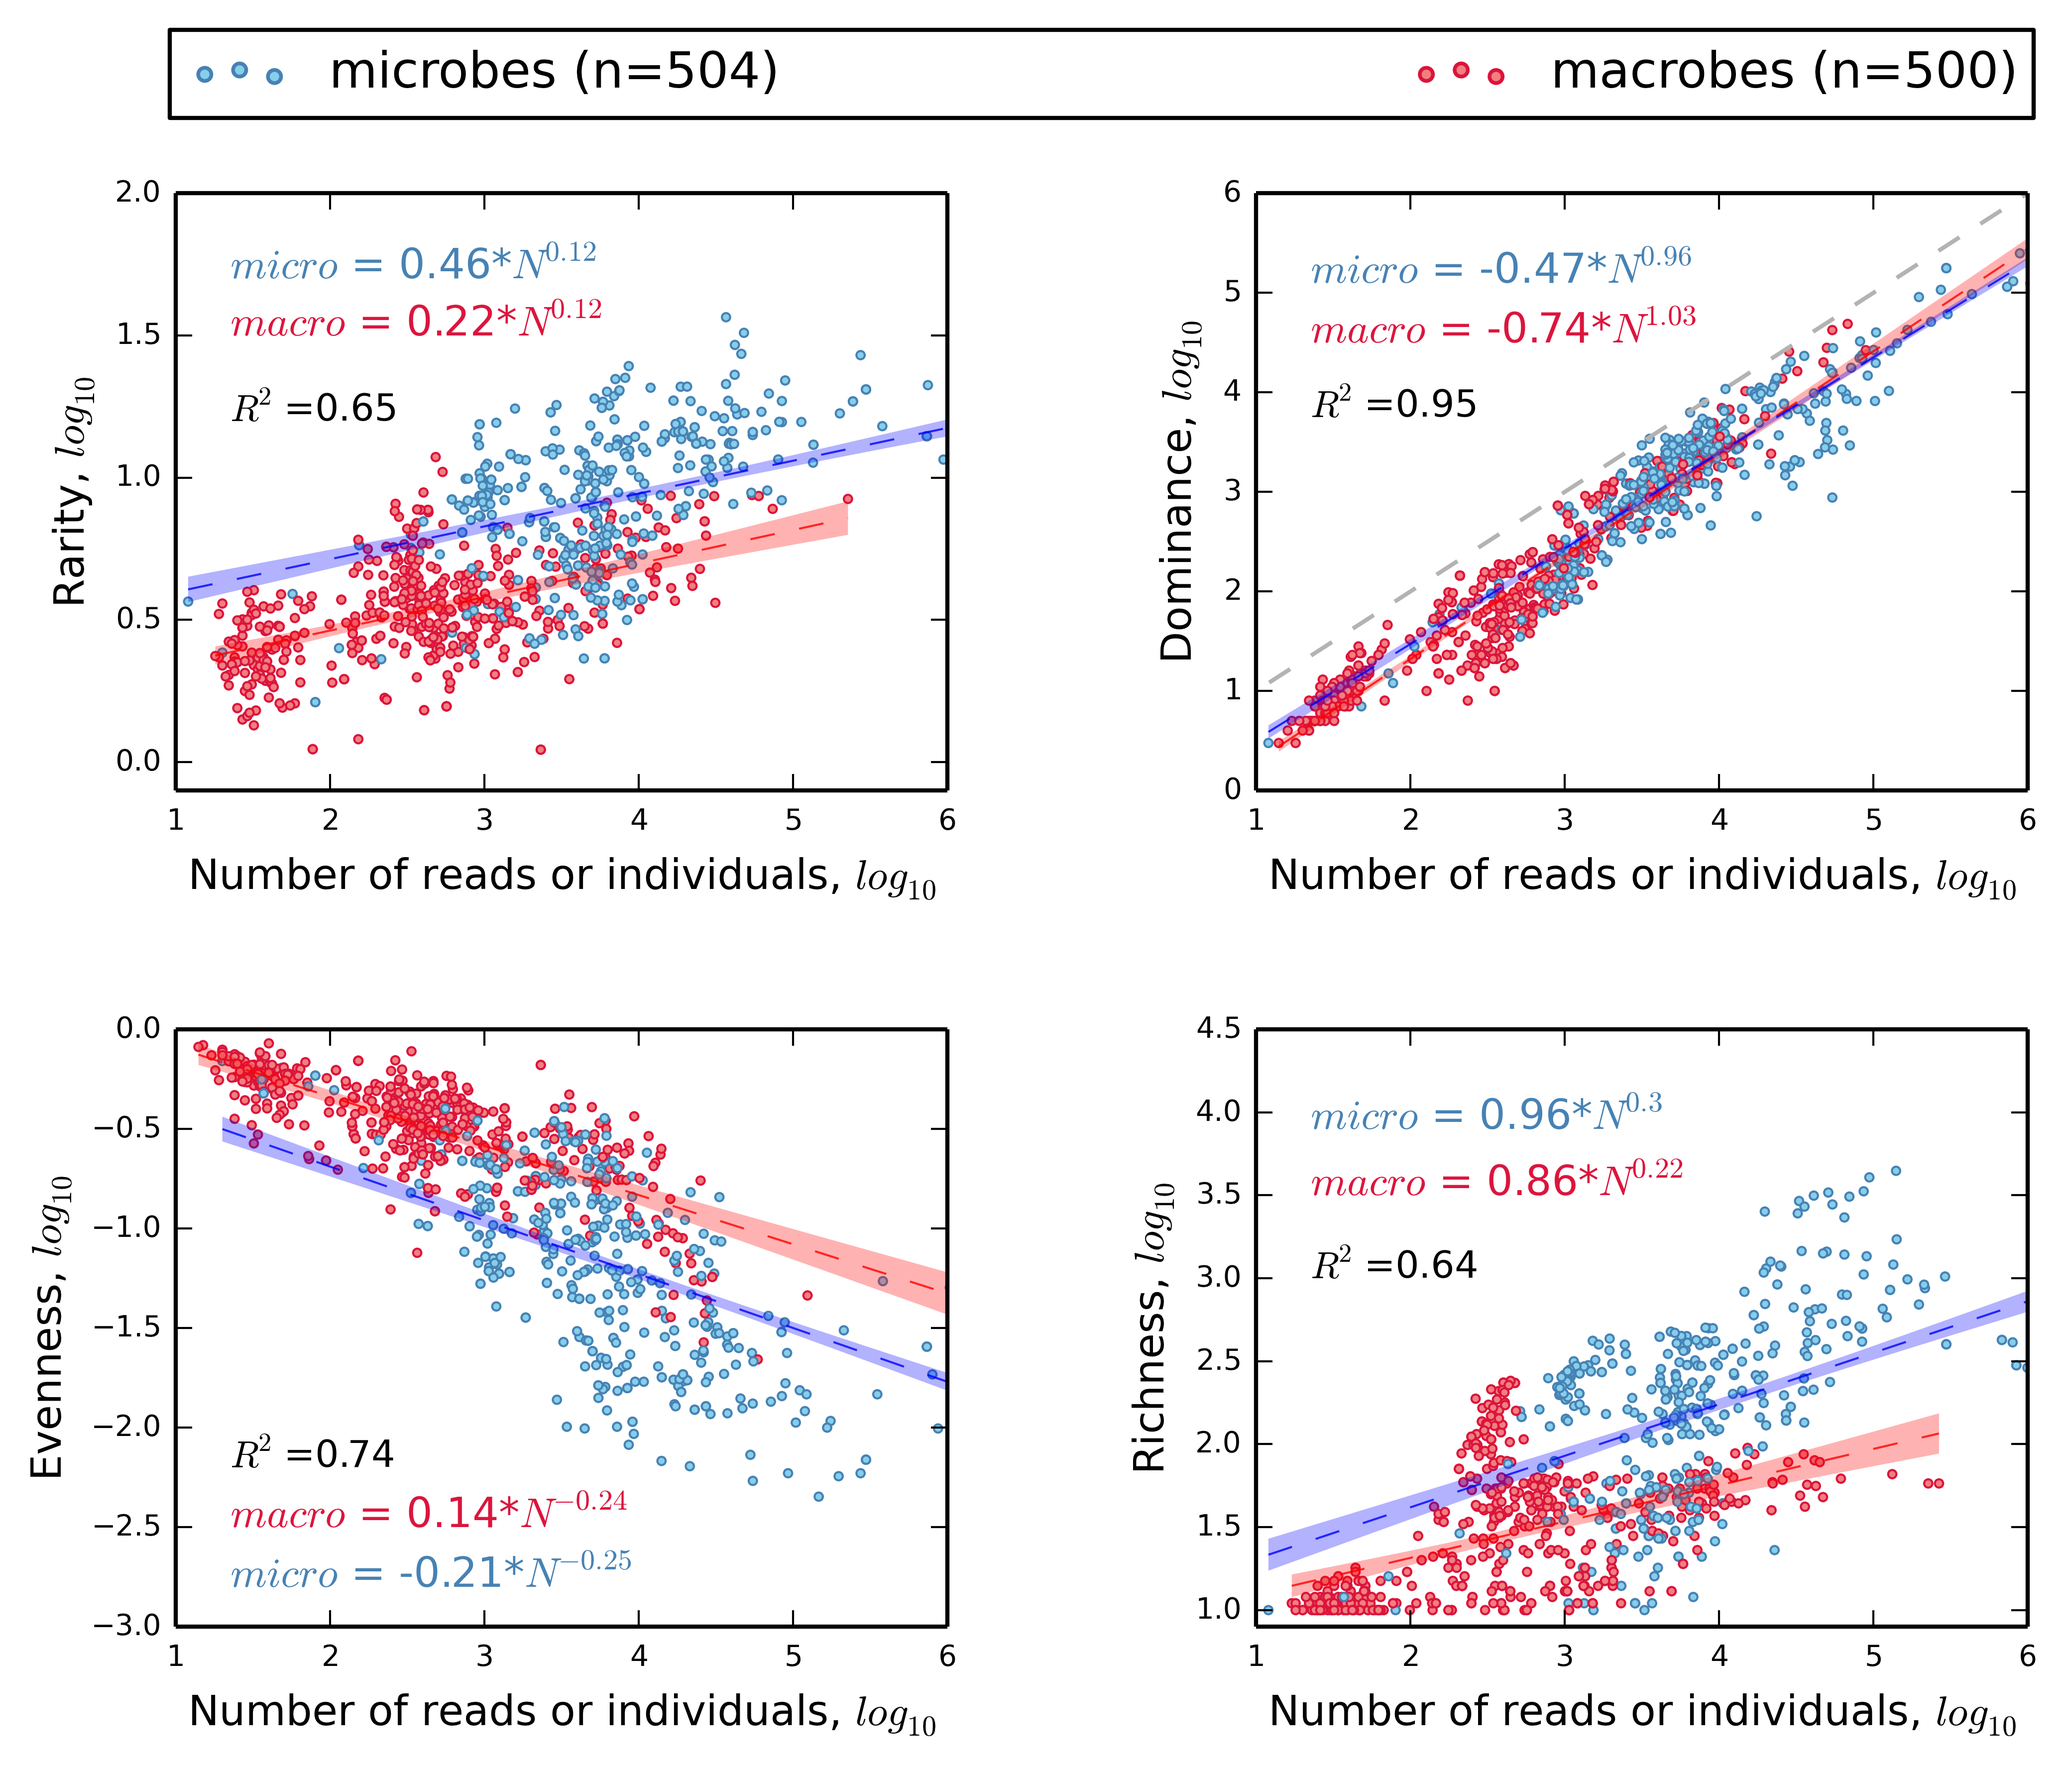
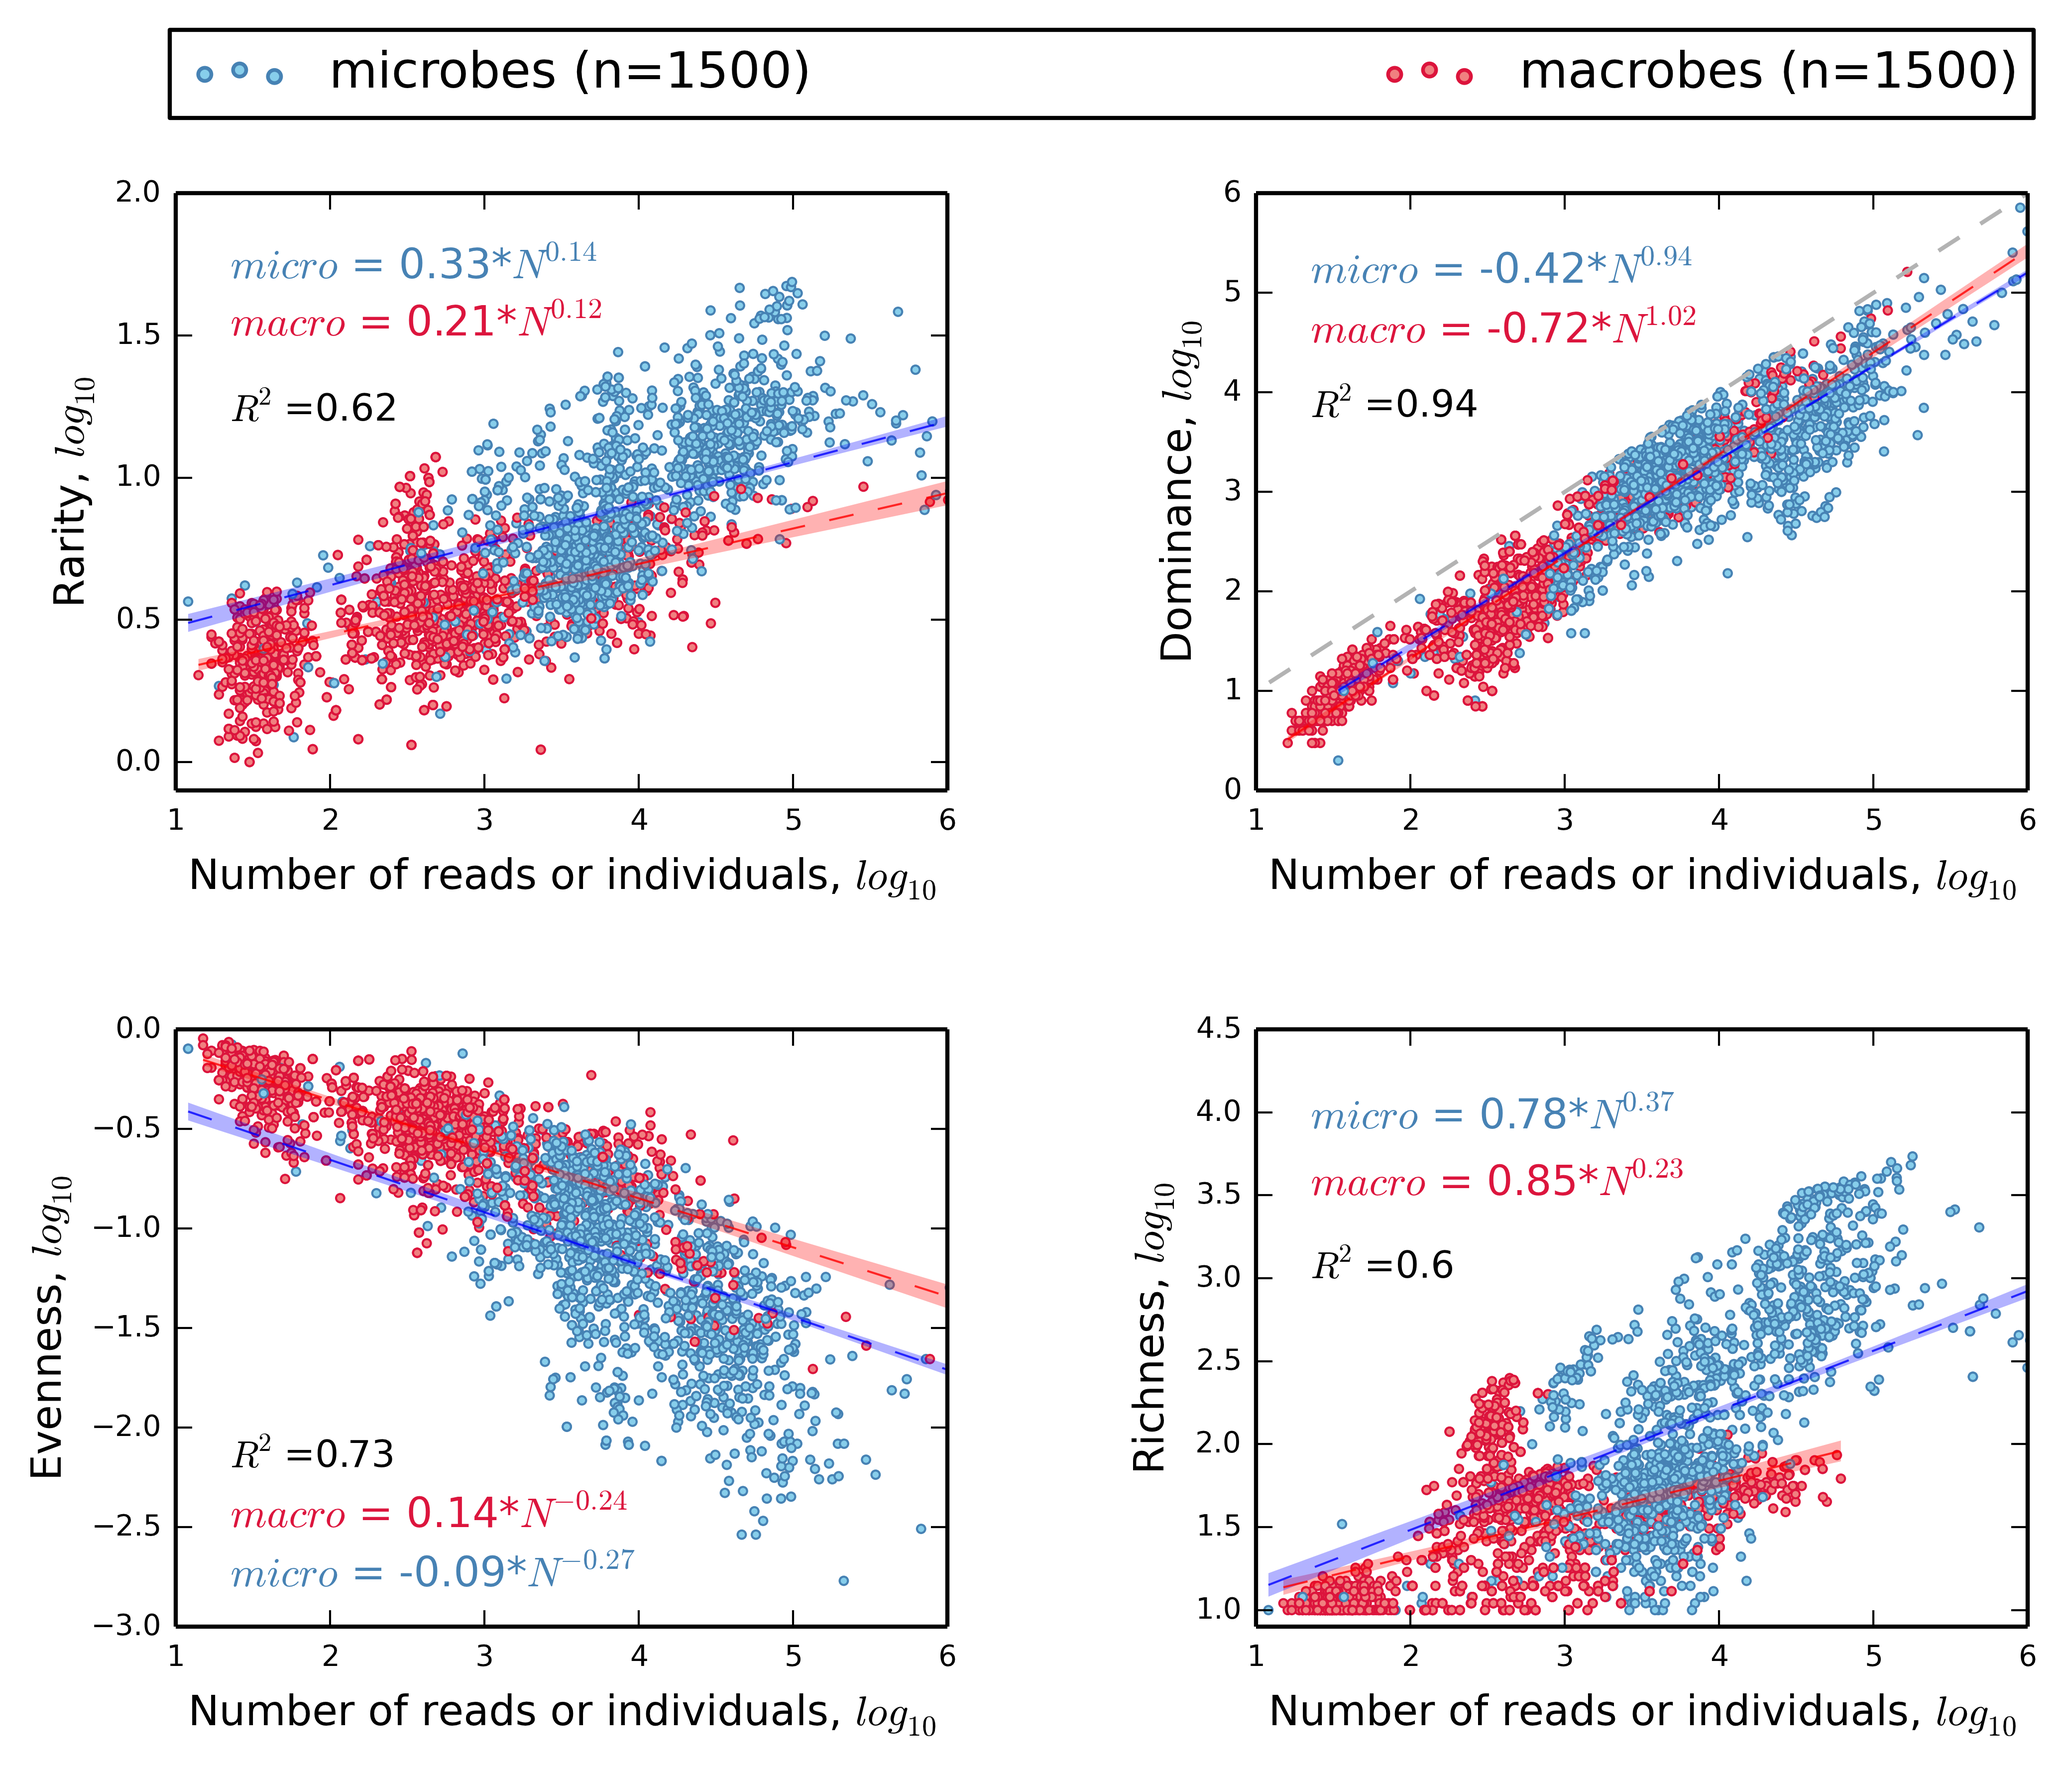
added Fig3Macrobes.py to predict macrobial S, modified Prestons_a.py file and Fig1.pyx; generated new fig -KL

diff --git a/fig-scripts/Fig3/Fig3Macrobes.py b/fig-scripts/Fig3/Fig3Macrobes.py
@@ -1,0 +1,226 @@
+from __future__ import division
+import  matplotlib.pyplot as plt
+import numpy as np
+import random
+import scipy as sc
+from scipy import stats
+import os
+import sys
+import statsmodels.stats.api as sms
+import statsmodels.formula.api as smf
+from statsmodels.sandbox.regression.predstd import wls_prediction_std
+from statsmodels.stats.outliers_influence import summary_table
+from numpy import log, log2, exp, sqrt, log10, pi
+from scipy.optimize import fsolve
+import scipy.optimize as opt
+import pandas as pd #import patsy
+import mpmath as mpm
+from scipy.optimize import fsolve
+from math import erf, pi
+import linecache
+import math
+
+mydir = os.path.expanduser("~/GitHub/rare-bio/")
+mydir2 = os.path.expanduser("~/")
+
+
+def alpha2(a, N, Nmax, Nmin):
+    y = sqrt(pi*Nmin*Nmax)/(2.0*a) * exp((a * log2(sqrt(Nmax/Nmin)))**2.0)
+    y = y * exp((log(2.0)/(2.0*a))**2.0)
+    y = y * erf(a * log2(sqrt(Nmax/Nmin)) - log(2.0)/(2.0*a)) + erf(a * log2(sqrt(Nmax/Nmin)) + log(2.0)/(2.0*a))
+    y -= N
+
+    return y # find alpha
+
+def s2(a, Nmax, Nmin):
+    return sqrt(pi)/a * exp( (a * log2(sqrt(Nmax/Nmin)))**2) # Using equation 10
+
+
+def getNmax(N, b, slope):
+    return 10 ** (b + slope*(log10(N)))
+
+def expS(N, b, slope):
+    return 10 ** (b + slope*(log10(N)))
+
+
+
+def Fig3():
+
+    """ A figure demonstrating a strong richness relationship across 10 or 11
+    orders of magnitude in total abundance. Taxonomic richness of a sample
+    scales in a log-log fashion with the total abundance of the sample.
+    """
+
+    Nlist, Slist, klist, NmaxList, datasets, radDATA = [[],[],[],[],[],[]]
+
+    name = 'MCDB'
+    kind = 'macro'
+    path = mydir2+'data/macro/'+name+'/'+name+'-SADMetricData.txt'
+    numlines = sum(1 for line in open(path))
+    lines = np.random.choice(range(1, numlines+1), 1000, replace=True)
+
+    path = mydir2+'data/'+kind+'/'+name+'/'+name+'-SADMetricData.txt'
+    for line in lines:
+        data = linecache.getline(path, line)
+        radDATA.append(data)
+
+    for data in radDATA:
+        data = data.split()
+        name, kind, N, S, Var, Evar, ESimp, EQ, O, ENee, EPielou, EHeip, BP, SimpDom, Nmax, McN, skew, logskew, chao1, ace, jknife1, jknife2, margalef, menhinick, preston_a, preston_S = data
+
+        N = float(N)
+        S = float(S)
+        Nmax = float(Nmax)
+
+        if S < 2 or N < 11: continue # Min species richness
+
+        Nlist.append(float(np.log10(N)))
+        Slist.append(float(np.log10(S)))
+
+        NmaxList.append(float(np.log10(Nmax)))
+        klist.append('DarkCyan')
+
+
+    Nlist, Slist, NmaxList = zip(*sorted(zip(Nlist, Slist, NmaxList)))
+    Nlist = list(Nlist)
+    Slist = list(Slist)
+    NmaxList = list(NmaxList)
+
+    # Regression for Dominance (Nmax) vs. N
+    d = pd.DataFrame({'N': Nlist})
+    d['Nmax'] = NmaxList
+    f = smf.ols('Nmax ~ N', d).fit()
+
+    dR2 = f.rsquared
+    dintercept = f.params[0]
+    dslope = f.params[1]
+    print 'R2 for Nmax vs. N:', round(dR2,3)
+
+    # Regression for Richness (S) vs. N
+    d = pd.DataFrame({'N': Nlist})
+    d['S'] = Slist
+    f = smf.ols('S ~ N', d).fit()
+
+    sR2 = f.rsquared
+    sintercept = f.params[0]
+    sslope = f.params[1]
+    print 'R2 for S vs. N:', round(sR2,3),'\n'
+
+    print 'Nmax =', round(dintercept,2), '*', 'N^', round(dslope,2)
+    print 'S =', round(sintercept,2), '*', 'N^', round(sslope,2),'\n'
+
+    MammalN = 286 * (10**6)
+    MammalNmax = 82 * (10**6)
+    MammalS = 63
+
+    # UK estimates for mammals
+    Nmin = 1
+    N = float(MammalN)
+    empS = expS(N, sintercept, sslope)
+
+    Nmax = MammalNmax
+    guess = 0.183774388267
+
+    a = opt.fsolve(alpha2, guess, (N, Nmax, Nmin))[0]
+    print guess, a
+    S2 = s2(a, Nmax, Nmin)
+
+    print 'MammalNmax:', '%.2e' % float(MammalNmax)
+    print 'predicted Nmax:', '%.2e' % getNmax(N, dintercept, dslope),'\n'
+    print 'estimated S for Mammals:', '%.2e' % MammalS
+    print 'scaling law prediction of S for Mammals:', '%.2e' % empS
+    print 'lognormal prediction of S for Mammals:', '%.2e' % S2,'\n'
+
+
+
+    AvianN = 2.*10**11
+    AvianNmax = 3*10**9
+    AvianS = 10500
+
+    Nlist, Slist, klist, NmaxList, datasets, radDATA = [[],[],[],[],[],[]]
+
+    name = 'BBS'
+    kind = 'macro'
+    path = mydir2+'data/macro/'+name+'/'+name+'-SADMetricData.txt'
+    numlines = sum(1 for line in open(path))
+    lines = np.random.choice(range(1, numlines+1), 1000, replace=True)
+
+    path = mydir2+'data/'+kind+'/'+name+'/'+name+'-SADMetricData.txt'
+    for line in lines:
+        data = linecache.getline(path, line)
+        radDATA.append(data)
+
+    for data in radDATA:
+        data = data.split()
+        name, kind, N, S, Var, Evar, ESimp, EQ, O, ENee, EPielou, EHeip, BP, SimpDom, Nmax, McN, skew, logskew, chao1, ace, jknife1, jknife2, margalef, menhinick, preston_a, preston_S = data
+
+        N = float(N)
+        S = float(S)
+        Nmax = float(Nmax)
+
+        if S < 2 or N < 11: continue # Min species richness
+
+        Nlist.append(float(np.log10(N)))
+        Slist.append(float(np.log10(S)))
+
+        NmaxList.append(float(np.log10(Nmax)))
+        klist.append('DarkCyan')
+
+
+    Nlist, Slist, NmaxList = zip(*sorted(zip(Nlist, Slist, NmaxList)))
+    Nlist = list(Nlist)
+    Slist = list(Slist)
+    NmaxList = list(NmaxList)
+
+    Nlist = list(Nlist)
+    Slist = list(Slist)
+    NmaxList = list(NmaxList)
+
+    # Regression for Dominance (Nmax) vs. N
+    d = pd.DataFrame({'N': Nlist})
+    d['Nmax'] = NmaxList
+    f = smf.ols('Nmax ~ N', d).fit()
+
+    dR2 = f.rsquared
+    dintercept = f.params[0]
+    dslope = f.params[1]
+    print 'R2 for Nmax vs. N:', round(dR2,3)
+
+    # Regression for Richness (S) vs. N
+    d = pd.DataFrame({'N': Nlist})
+    d['S'] = Slist
+    f = smf.ols('S ~ N', d).fit()
+
+    sR2 = f.rsquared
+    sintercept = f.params[0]
+    sslope = f.params[1]
+    print 'R2 for S vs. N:', round(sR2,3),'\n'
+
+    print 'Nmax =', round(dintercept,2), '*', 'N^', round(dslope,2)
+    print 'S =', round(sintercept,2), '*', 'N^', round(sslope,2),'\n'
+
+    # Global estimates for birds
+    Nmin = 1
+    N = float(AvianN)
+    empS = expS(N, sintercept, sslope)
+
+    Nmax = AvianNmax
+    guess = 0.210521390628
+
+
+    a = opt.fsolve(alpha2, guess, (N, Nmax, Nmin))[0]
+    print guess, a
+    S2 = s2(a, Nmax, Nmin)
+
+    print 'AvianNmax:', '%.2e' % float(AvianNmax)
+    print 'predicted Nmax:', '%.2e' % getNmax(N, dintercept, dslope),'\n'
+    print 'estimated S for Birds:', '%.2e' % AvianS
+    print 'scaling law prediction of S for Birds:', '%.2e' % empS
+    print 'lognormal prediction of S for birds:', '%.2e' % S2
+
+
+    return
+
+
+
+Fig3()

diff --git a/ExtraTests/lognormal/Prestons_a.py b/ExtraTests/lognormal/Prestons_a.py
@@ -19,83 +19,52 @@ Earth = 3.17 * 10**30 # estimated bacteria on Earth; add reference
 HGx = 10**14 # estimated bacteria in Human gut; add reference
 HGy = 0.1169*HGx # estimated most abundant bacteria in Human gut; add reference
 
-'''
-Human Gut, V3, A	188071	3319	28984
-Human Gut, V3, B	154446	2592	16400
-Human Gut, V3, C	148182	5671	16785
-Human Gut, V6, A	135570	1745	14440
-Human Gut, V6, B	154698	1673	15342
-Human Gut, V6, C	151626	1731	18530
-EMP	1252724704	5594411	597974
-HMP	22618041	27483	81814
-'''
+AvianN = 2.82*10**11
+AvianNmax = 3*10**9
+AvianS = 10500
 
 
-def alpha1(a):
+
+def alpha1(a, Nmax, Nt):
     return (sqrt(pi) * Nmax)/(2.0*a) * erf(log(2.0)/a) - Nt # find alpha
 
 def s1(a):
     return sqrt(pi)/a * exp( (log(2.0)/(2.0*a))**2.0 ) # Using equation 8
 
 
-def alpha2(a):
+def alpha2(a, N, Nmax, Nmin):
     y = sqrt(pi*Nmin*Nmax)/(2.0*a) * exp((a * log2(sqrt(Nmax/Nmin)))**2.0)
     y = y * exp((log(2.0)/(2.0*a))**2.0)
     y = y * erf(a * log2(sqrt(Nmax/Nmin)) - log(2.0)/(2.0*a)) + erf(a * log2(sqrt(Nmax/Nmin)) + log(2.0)/(2.0*a))
-    y -= Nt
+    y -= N
 
     return y # find alpha
 
-def s2(a):
+def s2(a, Nmax, Nmin):
     return sqrt(pi)/a * exp( (a * log2(sqrt(Nmax/Nmin)))**2) # Using equation 10
 
 
 def getNmax(N):
-    return 10 ** (0.5 + 0.93*(log10(N)))
+    return 10 ** (1.02*(log10(N)) - 0.71)
 
-def empS(N, b=0.639, slope=0.431):
-    return 10 ** (0.639 + 0.431*(log10(N)))
+def empS(N, b=0.85, slope=0.3): # macrobes: b = 0.86, slope = 0.23
+    return 10 ** (b + slope*(log10(N)))
 
 
-Nt = float(Earth)
-#Nmax = float(Pm)
-Nmax = getNmax(Earth)
+N = float(AvianN)
+Nmax = AvianNmax
 Nmin = 1.0
+Nmax = getNmax(AvianN)
 
-############################################### not assuming anything about Nmin
-fig = plt.figure()
-fig.add_subplot(2,2,1)
-
-guess = 0.0005
-a = opt.fsolve(alpha1, guess)[0]
-#a = opt.newton(alpha1, guess)
-
-S1 = s1(a)
-#print '\nalpha1 =', a, 'f(alpha1) = ', '%.2e' % alpha1(a), 'S1:','%.3e' % S1
-
-alist = np.linspace(0.99*a, a*1.2, 1000)
-plt.plot(alist, alpha1(alist))
-plt.xlabel("alpha1")
-plt.ylabel("f(alpha1)")
-plt.grid()
 
 ############################################### Assuming Nmin = 1
-fig.add_subplot(2,2,2)
 
 guess = 0.099
-a = opt.fsolve(alpha2, guess)[0]
-#a = opt.newton(alpha2, guess, maxiter=100)
+a = opt.fsolve(alpha2, guess, (N, Nmax, Nmin))[0]
+print guess, a
 
-S2 = s2(a)
-print '\nalpha2 = ', a, 'f(alpha2) = ','%.2e' % alpha2(a), 'S2:','%.3e' % S2
+S2 = s2(a, Nmax, Nmin)
+print 'S2:','%.3e' % S2
 
-S = empS(Nt)
+S = empS(N)
 print 'empS:','%.3e' % S
-
-
-#alist = np.linspace(0.9999*a, a*1.0001, 1000)
-#plt.plot(alist, alpha2(alist))
-#plt.xlabel("alpha2")
-#plt.ylabel("f(alpha2)")
-#plt.grid()
-#plt.show()
